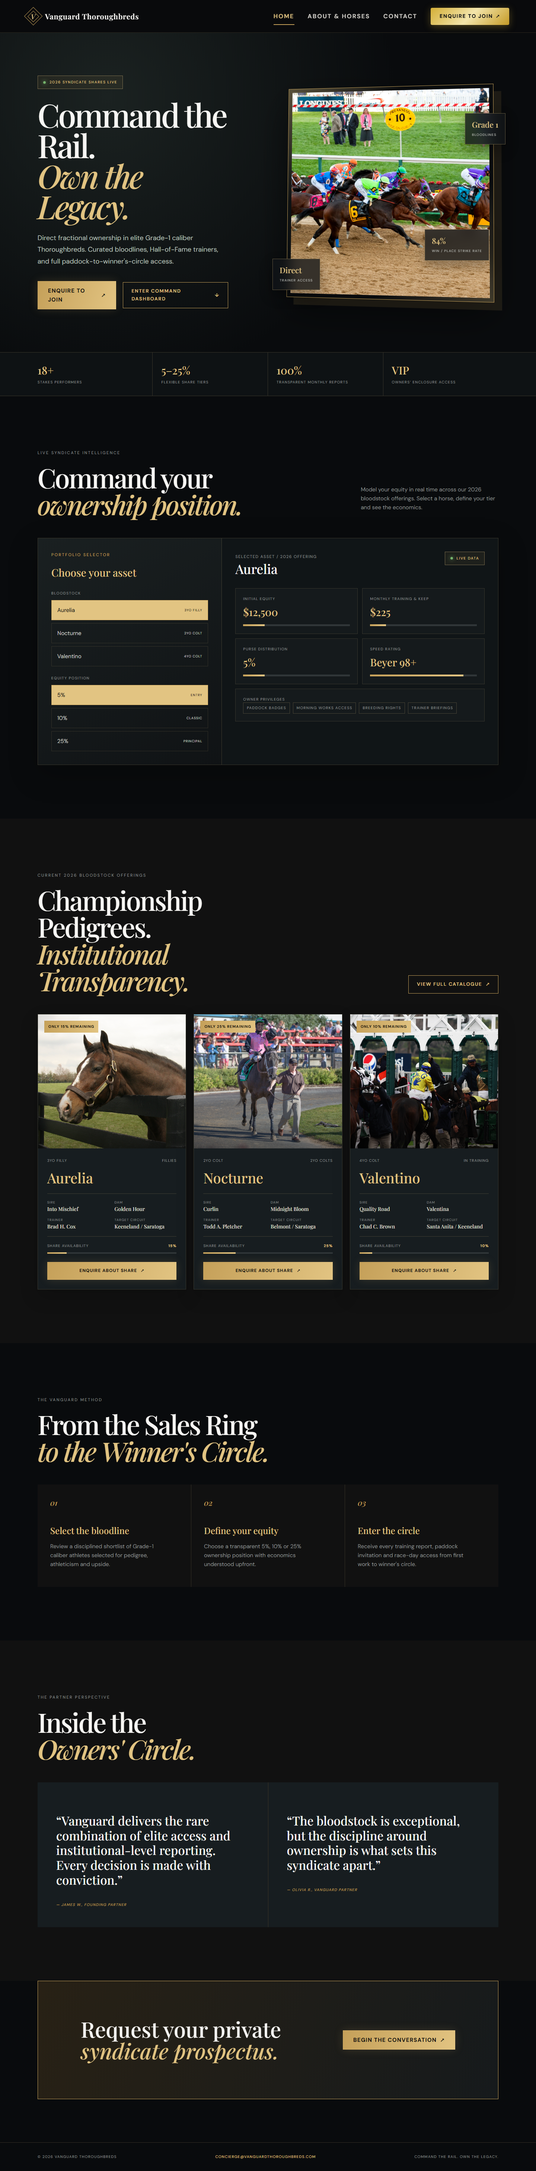
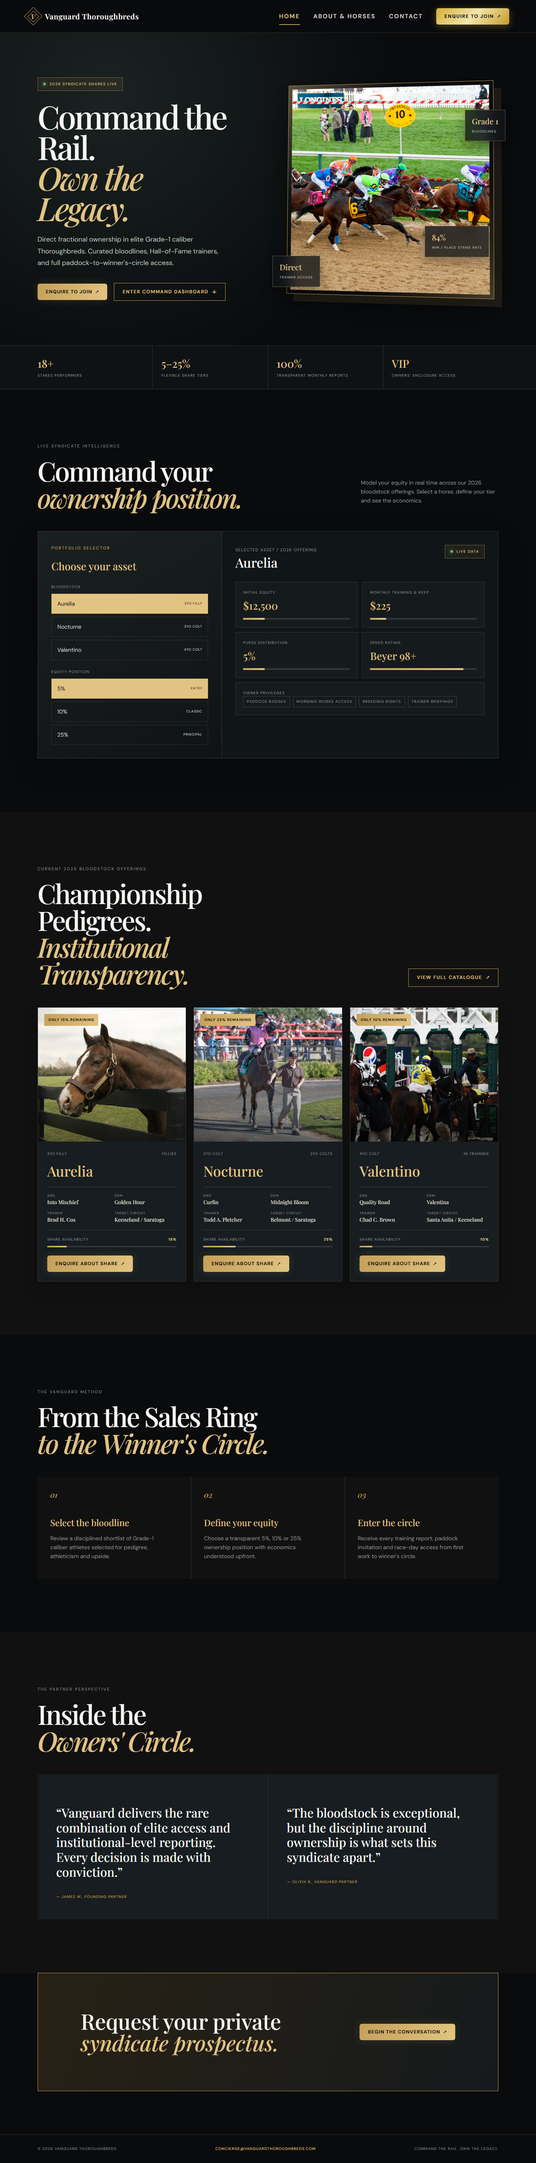
3D 24K metallic gold horse, zero intro pause, exact navbar CTA size, and 4K about image

diff --git a/index.html b/index.html
@@ -2,7 +2,7 @@
 <html lang="en">
 <head><meta charset="utf-8"><meta name="viewport" content="width=device-width, initial-scale=1"><title>Vanguard Thoroughbreds — Command the Rail.</title><meta name="description" content="Direct fractional ownership in elite Grade-1 caliber Thoroughbreds with Vanguard Thoroughbreds."><link rel="stylesheet" href="styles.css"></head>
 <body class="intro-active" data-page="home">
-<div id="race-intro-overlay" aria-label="Vanguard 2026 race introduction"><canvas id="race-canvas"></canvas><div class="intro-grid"></div><div class="intro-wordmark">VANGUARD</div><div class="intro-label">VANGUARD THOROUGHBREDS / 2026</div><button class="intro-button" id="skip-intro">Skip</button><div class="finish-line"><span>PHOTO FINISH<br>// VANGUARD 2026</span></div><div class="race-horse-trail"></div><img class="race-horse" src="images/golden-jockey-horse.webp" alt="" aria-hidden="true"><div class="intro-telemetry">SPEED: 41.8 MPH&nbsp;&nbsp; | &nbsp;&nbsp;STRIDE: 24.6 FT&nbsp;&nbsp; | &nbsp;&nbsp;FINISH: 1ST</div></div>
+<div id="race-intro-overlay" aria-label="Vanguard 2026 race introduction"><canvas id="race-canvas"></canvas><div class="intro-grid"></div><div class="intro-wordmark">VANGUARD</div><div class="intro-label">VANGUARD THOROUGHBREDS / 2026</div><button class="intro-button" id="skip-intro">Skip</button><div class="finish-line"><span>PHOTO FINISH<br>// VANGUARD 2026</span></div><div class="race-horse-trail"></div><div class="race-horse-shell"><img class="race-horse" src="images/golden-jockey-horse.webp" alt="" aria-hidden="true"></div><div class="intro-telemetry">SPEED: 41.8 MPH&nbsp;&nbsp; | &nbsp;&nbsp;STRIDE: 24.6 FT&nbsp;&nbsp; | &nbsp;&nbsp;FINISH: 1ST</div></div>
 <nav class="site-nav"><a class="brand-lockup" href="index.html"><span class="crest"><span class="crest-mark">V</span></span><span class="brand-name" data-brand>Vanguard Thoroughbreds</span></a><div class="nav-links"><a class="active" href="index.html">Home</a><a href="about.html">About & Horses</a><a href="contact.html">Contact</a><a class="nav-cta" href="contact.html">Enquire to Join <span>↗</span></a></div></nav>
 <main>
 <section class="hero"><div class="hero-copy"><span class="status-pill">2026 Syndicate Shares Live</span><h1 data-home-headline>Command the Rail.<br><em>Own the Legacy.</em></h1><p class="intro" data-home-intro>Direct fractional ownership in elite Grade-1 caliber Thoroughbreds. Curated bloodlines, Hall-of-Fame trainers, and full paddock-to-winner's-circle access.</p><div class="hero-actions"><a class="button" href="contact.html">Enquire to Join <span>↗</span></a><a class="outline-button" href="#command">Enter Command Dashboard <span>↓</span></a></div></div><div class="hero-visual"><div class="hero-frame"><img data-hero-image src="images/hero-racehorse.jpg" alt="Thoroughbred racehorses in competition" loading="eager"></div><div class="glass-card glass-one"><strong>Grade 1</strong><span>Bloodlines</span></div><div class="glass-card glass-two"><strong>84%</strong><span>Win / place strike rate</span></div><div class="glass-card glass-three"><strong>Direct</strong><span>Trainer access</span></div></div></section>
@@ -14,6 +14,6 @@
 <section class="cta-banner"><h2>Request your private<br><em>syndicate prospectus.</em></h2><a class="button" href="contact.html">Begin the conversation <span>↗</span></a></section>
 </main><footer class="site-footer"><span>© 2026 <span data-brand>Vanguard Thoroughbreds</span></span><a data-email>concierge@vanguardthoroughbreds.com</a><span>Command the rail. Own the legacy.</span></footer>
 <script src="site-content.js"></script><script>
-(function(){const overlay=document.getElementById("race-intro-overlay"),canvas=document.getElementById("race-canvas"),ctx=canvas.getContext("2d"),skip=document.getElementById("skip-intro");let raf,started=0,timer;function resize(){canvas.width=innerWidth*devicePixelRatio;canvas.height=innerHeight*devicePixelRatio;ctx.setTransform(devicePixelRatio,0,0,devicePixelRatio,0,0)}function draw(now){const t=Math.min((now-started)/2400,1),w=innerWidth,h=innerHeight;ctx.clearRect(0,0,w,h);for(let i=0;i<44;i++){const x=(i*83+now*.13)%w,y=(i*47+now*.04)%h;ctx.fillStyle=`rgba(226,196,130,${.15+.35*((i%5)/5)})`;ctx.beginPath();ctx.arc(x,y,1+(i%3),0,Math.PI*2);ctx.fill()}for(let i=0;i<14;i++){const x=(i*177+now*.7)%w;ctx.strokeStyle=`rgba(226,196,130,${.12+(1-t)*.18})`;ctx.lineWidth=1;ctx.beginPath();ctx.moveTo(x,h*.6);ctx.lineTo(x-180,h);ctx.stroke()}if(t<1)raf=requestAnimationFrame(draw);else finish()}function finish(){clearTimeout(timer);overlay.classList.add("is-done");document.body.classList.remove("intro-active")}function start(){clearTimeout(timer);overlay.classList.remove("is-done");document.body.classList.add("intro-active");started=performance.now();cancelAnimationFrame(raf);raf=requestAnimationFrame(draw);timer=setTimeout(finish,2550)}addEventListener("resize",resize);skip.addEventListener("click",finish);resize();start()})();
+(function(){const overlay=document.getElementById("race-intro-overlay"),canvas=document.getElementById("race-canvas"),ctx=canvas.getContext("2d"),skip=document.getElementById("skip-intro");let raf,started=0;function resize(){canvas.width=innerWidth*devicePixelRatio;canvas.height=innerHeight*devicePixelRatio;ctx.setTransform(devicePixelRatio,0,0,devicePixelRatio,0,0)}function finish(){overlay.classList.add("is-done");document.body.classList.remove("intro-active")}function draw(now){const t=Math.min((now-started)/1550,1),w=innerWidth,h=innerHeight;ctx.clearRect(0,0,w,h);for(let i=0;i<44;i++){const x=(i*83+now*.13)%w,y=(i*47+now*.04)%h;ctx.fillStyle=`rgba(226,196,130,${.15+.35*((i%5)/5)})`;ctx.beginPath();ctx.arc(x,y,1+(i%3),0,Math.PI*2);ctx.fill()}for(let i=0;i<14;i++){const x=(i*177+now*.7)%w;ctx.strokeStyle=`rgba(226,196,130,${.12+(1-t)*.18})`;ctx.lineWidth=1;ctx.beginPath();ctx.moveTo(x,h*.6);ctx.lineTo(x-180,h);ctx.stroke()}if(t<1)raf=requestAnimationFrame(draw);else finish()}function start(){overlay.classList.remove("is-done");document.body.classList.add("intro-active");started=performance.now();cancelAnimationFrame(raf);raf=requestAnimationFrame(draw)}addEventListener("resize",resize);skip.addEventListener("click",finish);resize();start()})();
 const DATA={5:{cost:12500,keep:225},10:{cost:25000,keep:450},25:{cost:62500,keep:1125}},HORSES={Aurelia:{speed:"Beyer 98+",remaining:15},Nocturne:{speed:"Beyer 101",remaining:25},Valentino:{speed:"Beyer 104",remaining:10}};let tier=5,horse="Aurelia";function money(n){return `$${n.toLocaleString("en-US")}`}function updateDash(){const d=DATA[tier],h=HORSES[horse],set=(sel,val)=>document.querySelector(sel).textContent=val,bar=(sel,val)=>document.querySelector(sel).style.width=`${val}%`;set("[data-dash-name]",horse);set("[data-kpi-cost]",money(d.cost));set("[data-kpi-keep]",money(d.keep));set("[data-kpi-prize]",`${tier}%`);set("[data-kpi-speed]",h.speed);bar("[data-kpi-cost-bar]",tier*4);bar("[data-kpi-keep-bar]",tier*3);bar("[data-kpi-prize-bar]",tier*4);bar("[data-kpi-speed-bar]",Math.min(100,80+(h.remaining/2)));}document.querySelectorAll("[data-horse]").forEach(b=>b.addEventListener("click",()=>{document.querySelectorAll("[data-horse]").forEach(x=>x.classList.remove("selected"));b.classList.add("selected");horse=b.dataset.horse;updateDash()}));document.querySelectorAll("[data-tier]").forEach(b=>b.addEventListener("click",()=>{document.querySelectorAll("[data-tier]").forEach(x=>x.classList.remove("selected"));b.classList.add("selected");tier=Number(b.dataset.tier);updateDash()}));updateDash();
 </script></body></html>

diff --git a/styles.css b/styles.css
@@ -39,24 +39,27 @@ button { cursor: pointer; }
 .nav-links a:not(.nav-cta)::after { position: absolute; right: 0; bottom: 21px; left: 0; height: 2px; background: var(--gold); transform: scaleX(0); transform-origin: right; transition: transform .3s ease; content: ""; }
 .nav-links a:not(.nav-cta):hover::after, .nav-links a.active::after { transform: scaleX(1); transform-origin: left; }
 .nav-links a.active { color: var(--champagne); }
-.nav-cta, .button { display: inline-flex; align-items: center; justify-content: center; gap: 10px; padding: 14px 28px; border: 0; color: #15130f; background: linear-gradient(110deg, var(--gold), var(--champagne)); box-shadow: 0 0 24px rgba(201, 164, 92, .18); font-size: 15px; font-weight: 700; letter-spacing: .08em; text-transform: uppercase; transition: transform .3s ease, box-shadow .3s ease; }
+.nav-cta, .button { display: inline-flex; align-items: center; justify-content: center; gap: 8px; height: 44px !important; max-height: 44px !important; min-height: 44px !important; padding: 0 22px !important; border: 0; border-radius: 6px !important; width: auto !important; align-self: center !important; color: #15130f; background: linear-gradient(110deg, var(--gold), var(--champagne)); box-shadow: 0 0 24px rgba(201, 164, 92, .18); font-size: 13px !important; font-weight: 700 !important; line-height: 44px !important; letter-spacing: .08em; text-transform: uppercase; transition: transform .3s ease, box-shadow .3s ease; }
 .nav-cta:hover, .button:hover { box-shadow: 0 8px 32px rgba(201, 164, 92, .32); transform: translateY(-2px); }
 
-#race-intro-overlay { position: fixed; inset: 0; z-index: 100; overflow: hidden; background: radial-gradient(circle at 50% 40%, #24201a, var(--obsidian) 62%); transition: opacity .55s ease, visibility .55s ease; }
-#race-intro-overlay.is-done { visibility: hidden; opacity: 0; pointer-events: none; }
+#race-intro-overlay { position: fixed; inset: 0; z-index: 100; overflow: hidden; background: radial-gradient(circle at 50% 40%, #24201a, var(--obsidian) 62%); opacity: 1; transform: scale(1); transition: opacity .35s ease-out, transform .35s ease-out, visibility .35s ease-out; }
+#race-intro-overlay.is-done { visibility: hidden; opacity: 0; transform: scale(1.03); pointer-events: none; }
 #race-canvas { position: absolute; inset: 0; width: 100%; height: 100%; }
 .intro-grid { position: absolute; inset: 47% -20% -30%; background: linear-gradient(115deg, transparent 49.5%, rgba(201,164,92,.35) 50%, transparent 50.5%), linear-gradient(75deg, transparent 49.5%, rgba(201,164,92,.22) 50%, transparent 50.5%); background-size: 150px 100%, 150px 100%; transform: perspective(350px) rotateX(58deg); opacity: .7; }
 .intro-wordmark { position: absolute; top: 50%; left: 50%; color: rgba(226,196,130,.08); font: 600 clamp(50px, 10vw, 160px) var(--serif); letter-spacing: .18em; transform: translate(-50%, -50%); white-space: nowrap; }
 .finish-line { position: absolute; top: 19%; bottom: 16%; left: 72%; width: 2px; background: linear-gradient(transparent, var(--champagne), transparent); box-shadow: 0 0 25px var(--gold); }
 .finish-line span { position: absolute; top: 50%; left: 18px; width: 150px; color: var(--champagne); font-size: 9px; letter-spacing: .22em; line-height: 1.8; transform: translateY(-50%); }
-.race-horse { position: absolute; z-index: 2; top: 50%; left: 0; width: clamp(330px, 42vw, 680px); height: auto; filter: drop-shadow(0 0 15px rgba(226,196,130,.8)); transform: translate3d(-35vw, -50%, 0); will-change: transform; animation: horseRun 2.4s cubic-bezier(.22,.61,.36,1) .1s forwards; }
-.race-horse-trail { position: absolute; z-index: 1; top: 57%; left: 0; width: 48vw; height: 2px; opacity: .8; background: linear-gradient(90deg, transparent, var(--champagne), transparent); filter: blur(2px); transform: translate3d(-100%, 0, 0); animation: trailRun 2.4s cubic-bezier(.22,.61,.36,1) .1s forwards; }
+.race-horse-shell { position: absolute; z-index: 2; top: 50%; left: 0; width: clamp(330px, 42vw, 680px); transform: translate3d(-30vw, -50%, 0); will-change: transform; animation: horseRun 1.85s cubic-bezier(.25,.8,.25,1) .1s forwards; }
+.race-horse-shell::after { position: absolute; inset: 0; background: linear-gradient(110deg, transparent 35%, rgba(255,250,210,.75) 50%, transparent 65%); background-size: 220% 100%; mix-blend-mode: screen; animation: goldSheen 1.1s linear infinite; content: ""; pointer-events: none; }
+.race-horse { display: block; width: 100%; height: auto; filter: drop-shadow(0 0 15px rgba(226,196,130,.8)); }
+.race-horse-trail { position: absolute; z-index: 1; top: 57%; left: 0; width: 48vw; height: 2px; opacity: .8; background: linear-gradient(90deg, transparent, var(--champagne), transparent); filter: blur(2px); transform: translate3d(-100%, 0, 0); animation: trailRun 1.85s cubic-bezier(.25,.8,.25,1) .1s forwards; }
 .intro-telemetry { position: absolute; bottom: 10%; left: 50%; z-index: 3; color: var(--champagne); font-size: 11px; letter-spacing: .2em; transform: translateX(-50%); white-space: nowrap; }
 .intro-label { position: absolute; top: 35px; left: 40px; z-index: 3; color: var(--champagne); font-size: 11px; letter-spacing: .25em; text-transform: uppercase; }
 .intro-button { position: absolute; top: 28px; right: 35px; z-index: 3; padding: 8px 12px; border: 1px solid rgba(226,196,130,.5); color: var(--champagne); background: transparent; font-size: 10px; letter-spacing: .15em; text-transform: uppercase; }
 .intro-button:hover { background: rgba(226,196,130,.12); }
-@keyframes horseRun { to { transform: translate3d(115vw, -50%, 0); } }
-@keyframes trailRun { to { transform: translate3d(115vw, 0, 0); } }
+@keyframes horseRun { to { transform: translate3d(102vw, -50%, 0); } }
+@keyframes trailRun { to { transform: translate3d(102vw, 0, 0); } }
+@keyframes goldSheen { from { background-position: 140% 0; } to { background-position: -40% 0; } }
 
 .hero { position: relative; display: grid; grid-template-columns: minmax(0, .9fr) minmax(0, 1.1fr); min-height: calc(100vh - 88px); padding: clamp(65px, 8vw, 130px) clamp(25px, 7vw, 120px); gap: clamp(40px, 7vw, 120px); align-items: center; background: radial-gradient(circle at 20% 20%, #1b2221, var(--obsidian) 58%); }
 .hero-copy { position: relative; z-index: 2; max-width: 650px; }
@@ -133,3 +136,5 @@ button { cursor: pointer; }
 .nav .nav-links { height: 88px; }
 .nav .nav-links a:not(.button) { display: inline-flex; align-items: center; height: 88px; padding: 0; }
 .nav .nav-links a:not(.button)::after { bottom: 19px; }
+.nav .button, .site-nav .nav-cta { height: 44px !important; max-height: 44px !important; min-height: 44px !important; padding: 0 22px !important; font-size: 13px !important; font-weight: 700 !important; line-height: 44px !important; border-radius: 6px !important; width: auto !important; align-self: center !important; }
+.story-image img, .contact-hero img { object-fit: cover; image-rendering: high-quality; }

diff --git a/contact.html b/contact.html
@@ -2,7 +2,7 @@
 <html lang="en">
 <head><meta charset="utf-8"><meta name="viewport" content="width=device-width, initial-scale=1"><title>Private Prospectus — Vanguard Thoroughbreds</title><meta name="description" content="Request a private Vanguard Thoroughbreds syndicate prospectus."><link rel="preconnect" href="https://fonts.googleapis.com"><link rel="preconnect" href="https://fonts.gstatic.com" crossorigin><link href="https://fonts.googleapis.com/css2?family=DM+Sans:wght@400;500;600&family=Playfair+Display:ital,wght@0,500;1,500&display=swap" rel="stylesheet"><link rel="stylesheet" href="styles.css"><link rel="stylesheet" href="styles-enhancements.css"></head>
 <body data-page="contact">
-<nav class="nav"><a class="logo" href="index.html"><span class="logo-mark"><span>✦</span></span><span data-brand>Vanguard Thoroughbreds</span></a><div class="nav-links"><a href="index.html">Home</a><a href="about.html">About & Horses</a><a href="contact.html">Contact</a></div></nav>
+<nav class="nav"><a class="logo" href="index.html"><span class="logo-mark"><span>✦</span></span><span data-brand>Vanguard Thoroughbreds</span></a><div class="nav-links"><a href="index.html">Home</a><a href="about.html">About & Horses</a><a href="contact.html">Contact</a><a class="button" href="contact.html">Enquire to Join <span>↗</span></a></div></nav>
 <main class="contact-layout"><section class="contact-copy"><p class="eyebrow">The private concierge</p><h1>Request Your Private<br><em>Syndicate Prospectus.</em></h1><p>Tell us what you are looking for. A member of the Vanguard team will reply personally, usually within one working day.</p><div class="contact-details"><p><span>Email</span><a data-email></a></p><p><span>Telephone</span><a data-phone></a></p><p><span>By appointment</span><span data-location></span></p></div><div class="contact-hero"><img data-contact-hero alt="Thoroughbred in the stable yard" loading="eager"></div><div class="membership-panel"><p class="eyebrow">Private membership tiers</p><div class="membership-grid"><article><strong>5%</strong><span>Entry Partner</span><small>Paddock credentials · Monthly reports</small></article><article class="featured"><strong>10%</strong><span>Classic Partner</span><small>Morning works · Trainer briefings</small></article><article><strong>25%</strong><span>Principal Partner</span><small>Breeding rights · Private access</small></article></div></div><div class="viewings"><p class="eyebrow">Private stable viewing</p><div><span>KEENELAND</span><strong>APR 18–20 · 7:00 AM</strong></div><div><span>SARATOGA SPRINGS</span><strong>JUL 22–24 · BY APPOINTMENT</strong></div></div><div class="faq"><h2>Questions, answered.</h2><div data-faqs></div></div></section>
 <section class="form-card"><p class="eyebrow">Start your ownership story</p><h2>Request your prospectus</h2><form id="enquiry-form" method="POST" novalidate><input type="hidden" name="_subject" value="New Vanguard Thoroughbreds prospectus request"><div class="form-grid"><div class="field"><label for="name">Full name</label><input id="name" name="name" autocomplete="name" required></div><div class="field"><label for="email">Email address</label><input id="email" name="email" type="email" autocomplete="email" required></div></div><div class="field"><label for="phone">Phone number</label><input id="phone" name="phone" type="tel" autocomplete="tel" required></div><div class="field"><label for="share">Preferred share size</label><select id="share" name="share" required><option value="">Select a share tier</option><option>5% — Entry</option><option>10% — Classic</option><option>25% — Principal</option></select></div><div class="field"><label for="interest">Horse of interest</label><select id="interest" name="interest" data-horse-options required></select></div><button class="submit" type="submit">Send private enquiry <span>↗</span></button><p class="status" id="form-status" role="status"></p><p class="fine-print">Your details are treated with complete discretion.</p></form></section></main>
 <footer class="footer"><span>© 2026 <span data-brand>Vanguard Thoroughbreds</span></span><span>Ownership, elevated.</span><a href="index.html">Return home ↗</a></footer>

diff --git a/about.html b/about.html
@@ -2,7 +2,7 @@
 <html lang="en">
 <head><meta charset="utf-8"><meta name="viewport" content="width=device-width, initial-scale=1"><title>About & Upcoming Horses — Vanguard Thoroughbreds</title><meta name="description" content="Discover Vanguard Thoroughbreds' heritage, bloodstock philosophy and upcoming horses."><link rel="preconnect" href="https://fonts.googleapis.com"><link rel="preconnect" href="https://fonts.gstatic.com" crossorigin><link href="https://fonts.googleapis.com/css2?family=DM+Sans:wght@400;500;600&family=Playfair+Display:ital,wght@0,500;1,500&display=swap" rel="stylesheet"><link rel="stylesheet" href="styles.css"><link rel="stylesheet" href="styles-enhancements.css"></head>
 <body data-page="about">
-<nav class="nav"><a class="logo" href="index.html"><span class="logo-mark"><span>✦</span></span><span data-brand>Vanguard Thoroughbreds</span></a><div class="nav-links"><a href="index.html">Home</a><a href="about.html">About & Horses</a><a href="contact.html">Contact</a><a class="button" href="contact.html">Enquire to join</a></div></nav>
+<nav class="nav"><a class="logo" href="index.html"><span class="logo-mark"><span>✦</span></span><span data-brand>Vanguard Thoroughbreds</span></a><div class="nav-links"><a href="index.html">Home</a><a href="about.html">About & Horses</a><a href="contact.html">Contact</a><a class="button" href="contact.html">Enquire to Join <span>↗</span></a></div></nav>
 <main><header class="page-head"><p class="eyebrow" data-about-eyebrow></p><h1 data-about-headline></h1></header>
 <section class="story"><div class="story-image"><img data-story-image alt="Thoroughbred horse in a paddock" loading="eager"></div><div class="story-copy"><h2 data-story-title></h2><p data-story-body></p></div></section>
 <section class="mission"><p class="eyebrow">Our mission</p><p data-mission></p></section>

diff --git a/styles-enhancements.css b/styles-enhancements.css
@@ -47,5 +47,6 @@ body{background:#0A0B0E;color:#F5F2EB}
 .viewings>div{display:flex;justify-content:space-between;gap:20px;padding:14px 0;border-top:1px solid rgba(212,175,55,.2);font-size:10px;letter-spacing:.1em}
 .viewings>div span{color:#969b98}.viewings>div strong{color:#D4AF37;font-weight:600;text-align:right}
 .form-card{color:#F5F2EB;box-shadow:0 25px 80px rgba(0,0,0,.4)}
+.nav .button,.site-nav .nav-cta{height:44px !important;max-height:44px !important;min-height:44px !important;padding:0 22px !important;font-size:13px !important;font-weight:700 !important;line-height:44px !important;border-radius:6px !important;width:auto !important;align-self:center !important}
 .form-card h2{color:#F5F2EB}.field input,.field select{color:#F5F2EB;border-color:rgba(212,175,55,.35)}.field select option{color:#111;background:#F5F2EB}
 @media(max-width:760px){.horse-showcase{display:block}.horse-showcase-item{margin-bottom:28px}.membership-grid{grid-template-columns:1fr}.viewings>div{display:block}.viewings>div strong{display:block;margin-top:5px;text-align:left}}

diff --git a/download_story_image.py b/download_story_image.py
@@ -1,0 +1,77 @@
+"""Download and validate a sharp, full-colour 4K Wikimedia story image."""
+from io import BytesIO
+from pathlib import Path
+import time
+
+import numpy as np
+import requests
+from PIL import Image, ImageFilter
+
+ROOT = Path(__file__).parent
+OUTPUT = ROOT / "images" / "story-horse.jpg"
+API = "https://commons.wikimedia.org/w/api.php"
+
+
+def sharpness(image: Image.Image) -> float:
+    gray = np.asarray(image.convert("L"), dtype=np.float32)
+    laplacian = (
+        -4 * gray
+        + np.roll(gray, 1, 0)
+        + np.roll(gray, -1, 0)
+        + np.roll(gray, 1, 1)
+        + np.roll(gray, -1, 1)
+    )
+    return float(laplacian.var())
+
+
+def main() -> None:
+    session = requests.Session()
+    session.headers["User-Agent"] = "Mozilla/5.0 VanguardThoroughbreds/1.0"
+    response = session.get(
+        API,
+        params={
+            "action": "query",
+            "generator": "search",
+            "gsrsearch": "thoroughbred horse racing paddock galloping",
+            "gsrnamespace": 6,
+            "gsrlimit": 30,
+            "prop": "imageinfo",
+            "iiprop": "url|size|mime",
+            "iiurlwidth": 3200,
+            "format": "json",
+        },
+        timeout=60,
+    )
+    response.raise_for_status()
+    pages = response.json().get("query", {}).get("pages", {}).values()
+    candidates = []
+    for page in pages:
+        info = page.get("imageinfo", [{}])[0]
+        if info.get("mime") in {"image/jpeg", "image/jpg"} and info.get("width", 0) >= 2400:
+            candidates.append(info.get("thumburl") or info.get("url"))
+    candidates.extend([
+        "https://upload.wikimedia.org/wikipedia/commons/8/8a/2014_Preakness_Stakes_start.jpg",
+        "https://upload.wikimedia.org/wikipedia/commons/7/7b/Horseracing_Churchill_Downs.jpg",
+        "https://thumb.wikimedia.org/wikipedia/commons/thumb/c/c8/Horse_Racing_%283432412110%29.jpg/3840px-Horse_Racing_%283432412110%29.jpg",
+    ])
+    if not candidates:
+        raise RuntimeError("No Wikimedia JPEG candidate at least 2400px wide was found.")
+
+    for url in candidates:
+        try:
+            image_response = session.get(url, timeout=90)
+            image_response.raise_for_status()
+            image = Image.open(BytesIO(image_response.content)).convert("RGB")
+            if image.width < 2400 or sharpness(image) < 35:
+                continue
+            image.save(OUTPUT, "JPEG", quality=96, subsampling=0, optimize=True, progressive=True)
+            print(f"Saved {OUTPUT}: {image.size}, sharpness={sharpness(image):.1f}")
+            return
+        except Exception as exc:
+            print(f"Skipping candidate: {exc}")
+            time.sleep(1)
+    raise RuntimeError("All Wikimedia candidates failed RGB, size, or sharpness validation.")
+
+
+if __name__ == "__main__":
+    main()

diff --git a/upgrade_gold_horse.py b/upgrade_gold_horse.py
@@ -1,0 +1,48 @@
+"""Build a clean, shaded 24K-gold horse from the existing alpha silhouette."""
+from pathlib import Path
+
+import numpy as np
+from PIL import Image, ImageFilter
+from scipy.ndimage import distance_transform_edt, gaussian_filter
+
+ROOT = Path(__file__).parent
+SOURCE = ROOT / "images" / "golden-jockey-horse.png"
+OUTPUT = ROOT / "images" / "golden-jockey-horse.png"
+
+
+def main() -> None:
+    source = Image.open(SOURCE).convert("RGBA")
+    scale = 4
+    width, height = source.size
+    alpha = np.asarray(source.getchannel("A").resize((width * scale, height * scale), Image.Resampling.LANCZOS), dtype=np.float32) / 255
+    alpha = gaussian_filter(alpha, sigma=0.8)
+    alpha = np.clip(alpha, 0, 1)
+
+    interior = distance_transform_edt(alpha > 0.08)
+    interior = gaussian_filter(interior, sigma=2.2)
+    light = gaussian_filter(interior, sigma=9)
+    light = (light - light.min()) / max(light.max() - light.min(), 1)
+    dx = gaussian_filter(interior, sigma=3, order=(0, 1))
+    dy = gaussian_filter(interior, sigma=3, order=(1, 0))
+    normal_z = np.sqrt(np.clip(1 - (dx * 0.045) ** 2 - (dy * 0.045) ** 2, 0, 1))
+    diffuse = np.clip(dx * -0.035 + dy * -0.025 + normal_z * 0.92, 0, 1)
+    specular = np.clip((diffuse ** 18) * 1.2 + (light ** 10) * 0.75, 0, 1)
+
+    shadow = np.array([92, 62, 9], dtype=np.float32)
+    mid = np.array([212, 175, 55], dtype=np.float32)
+    highlight = np.array([255, 246, 204], dtype=np.float32)
+    t = np.clip(0.18 + diffuse[..., None] * 0.76, 0, 1)
+    rgb = shadow + (mid - shadow) * t
+    rgb += (highlight - rgb) * specular[..., None]
+
+    rim = np.clip(1 - distance_transform_edt(alpha > 0.2) / 18, 0, 1) * alpha
+    rgb += np.array([70, 50, 16], dtype=np.float32) * rim[..., None]
+    pixels = np.dstack((np.clip(rgb, 0, 255).astype(np.uint8), (alpha * 255).astype(np.uint8)))
+    result = Image.fromarray(pixels, "RGBA").resize((width, height), Image.Resampling.LANCZOS)
+    result = result.filter(ImageFilter.UnsharpMask(radius=1.1, percent=115, threshold=2))
+    result.save(OUTPUT, "PNG", optimize=True)
+    print(f"Saved clean shaded gold silhouette: {OUTPUT} ({width}x{height})")
+
+
+if __name__ == "__main__":
+    main()
